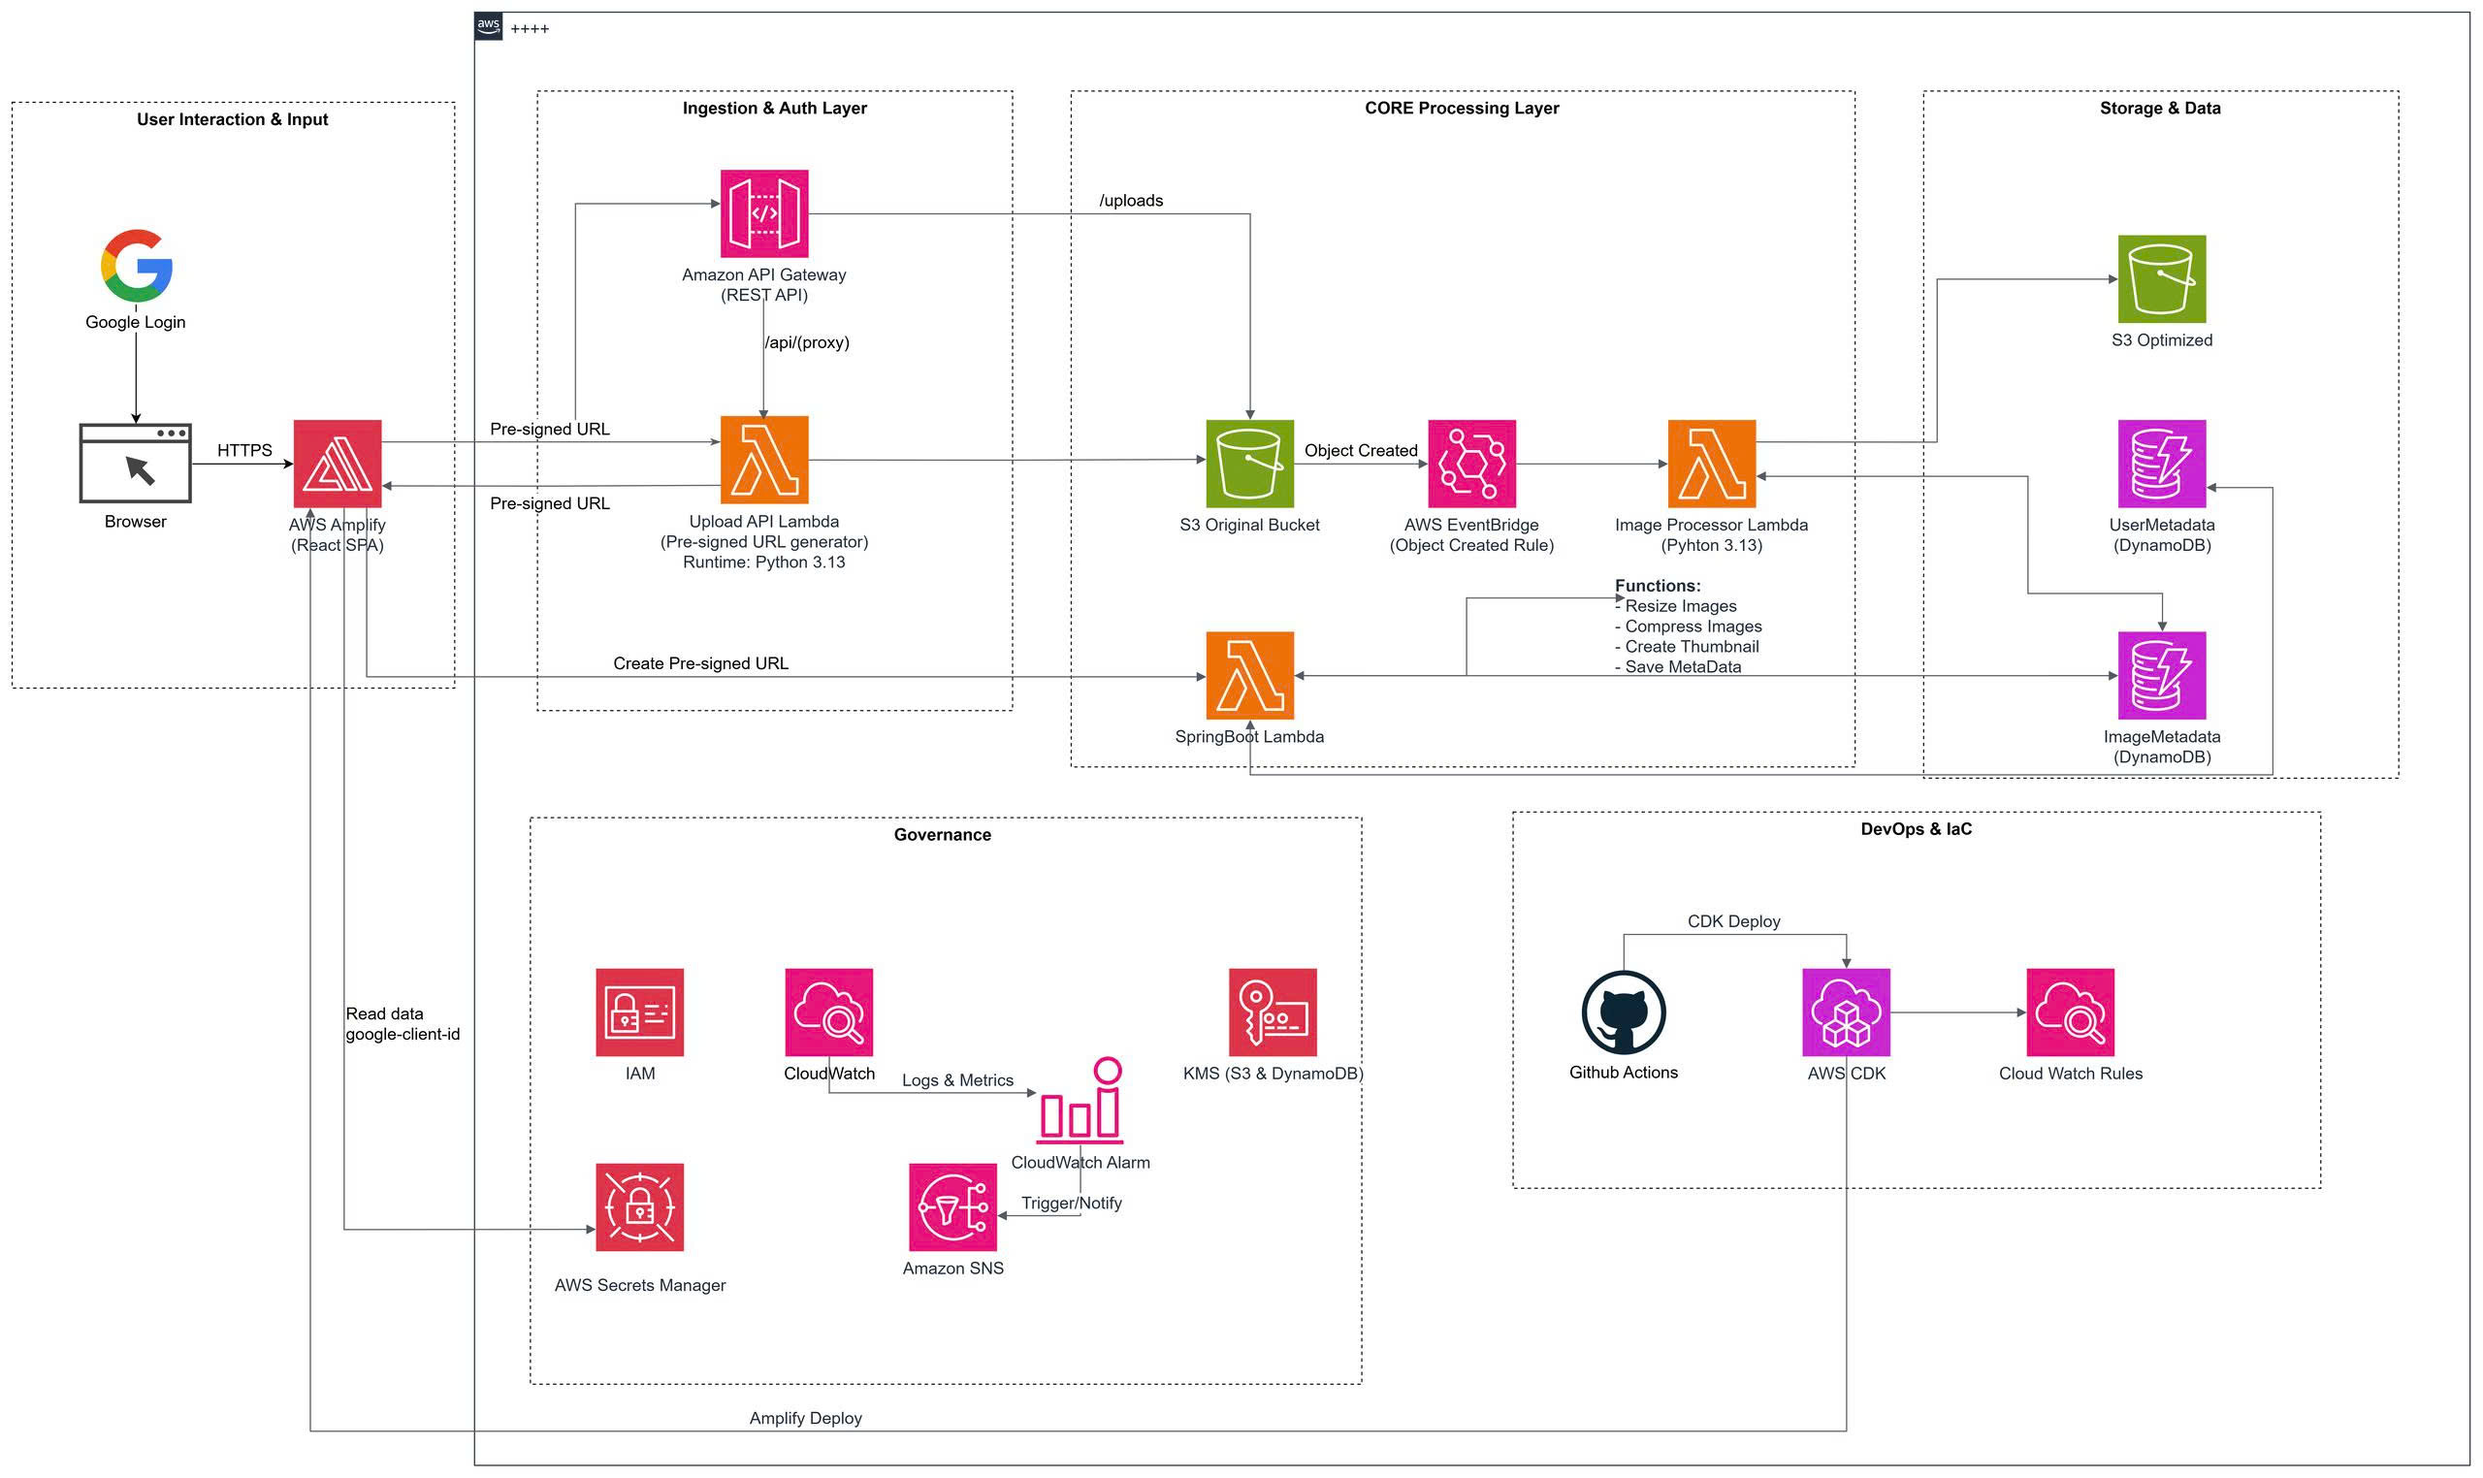
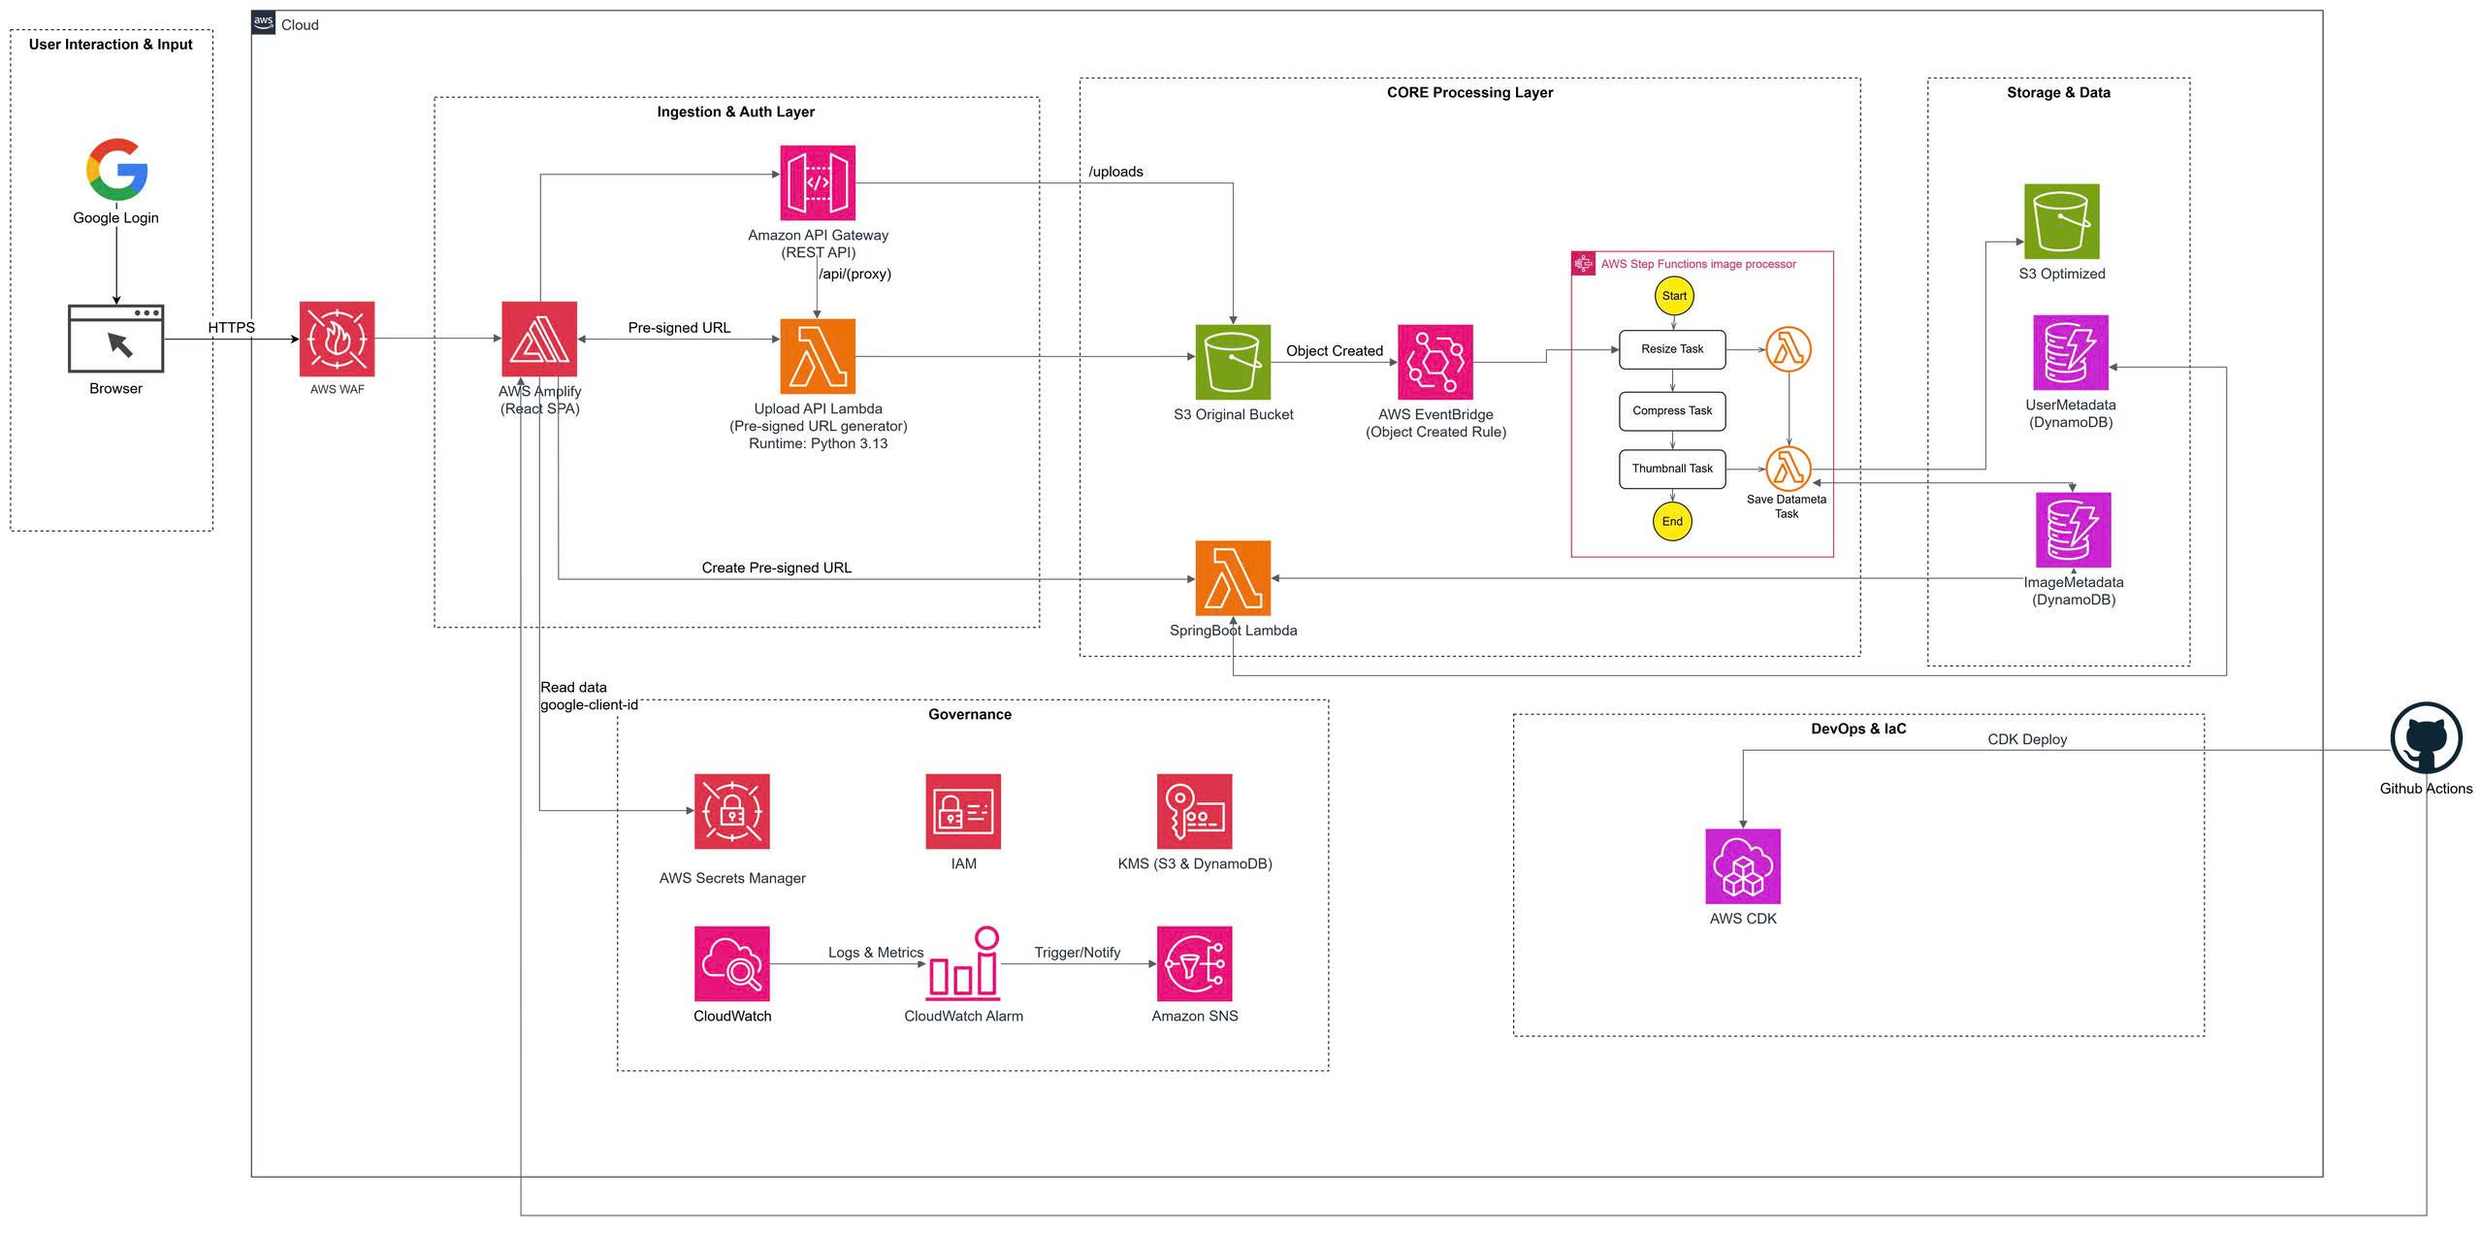
update diagram

diff --git a/content/2-Proposal/_index.vi.md b/content/2-Proposal/_index.vi.md
@@ -200,3 +200,6 @@ Chi phí chủ yếu đến từ các dịch vụ AWS.
 #### Giá trị dài hạn
 
 Hệ thống là nền tảng để phát triển các ứng dụng xử lý đa phương tiện trên nền tảng đám mây. Trong tương lai có thể mở rộng thêm các chức năng như chuyển đổi định dạng ảnh, watermark, AI Image Enhancement, nhận diện nội dung bằng Amazon Rekognition hoặc tích hợp CDN để tối ưu phân phối hình ảnh.
+
+![overview](/static/images/5-Workshop/5.1-Workshop-overview/diagram1.jpg)
+*Sơ đồ kiến trúc hệ thống*

diff --git a/content/2-Proposal/_index.md b/content/2-Proposal/_index.md
@@ -200,3 +200,6 @@ For educational and testing purposes, the estimated monthly cost is only a few U
 #### Long-Term Value
 
 The system provides a foundation for developing cloud-based multimedia processing applications. In the future, it can be extended with additional capabilities such as image format conversion, watermarking, AI-based image enhancement, content recognition using Amazon Rekognition, or CDN integration to optimize image delivery.
+
+![overview](/static/images/5-Workshop/5.1-Workshop-overview/diagram1.jpg)
+*System Architecture Diagram*
